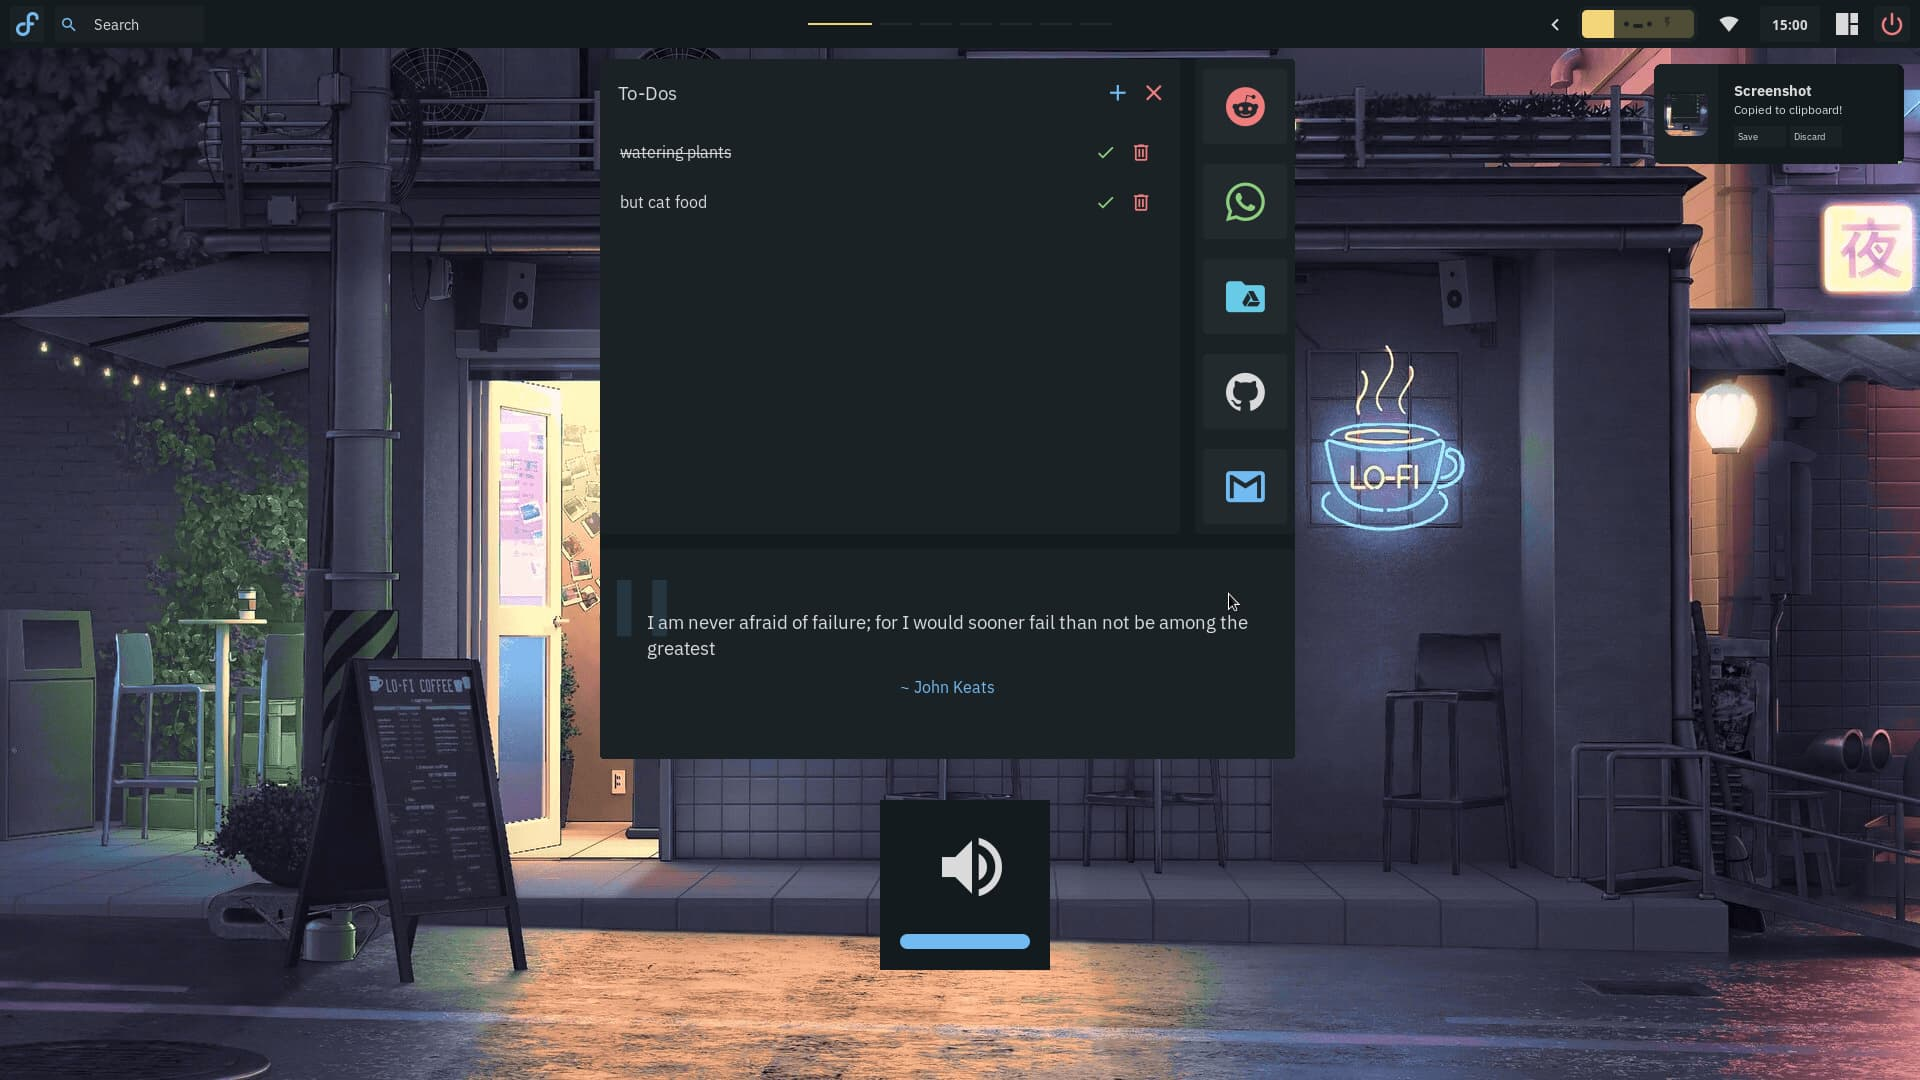
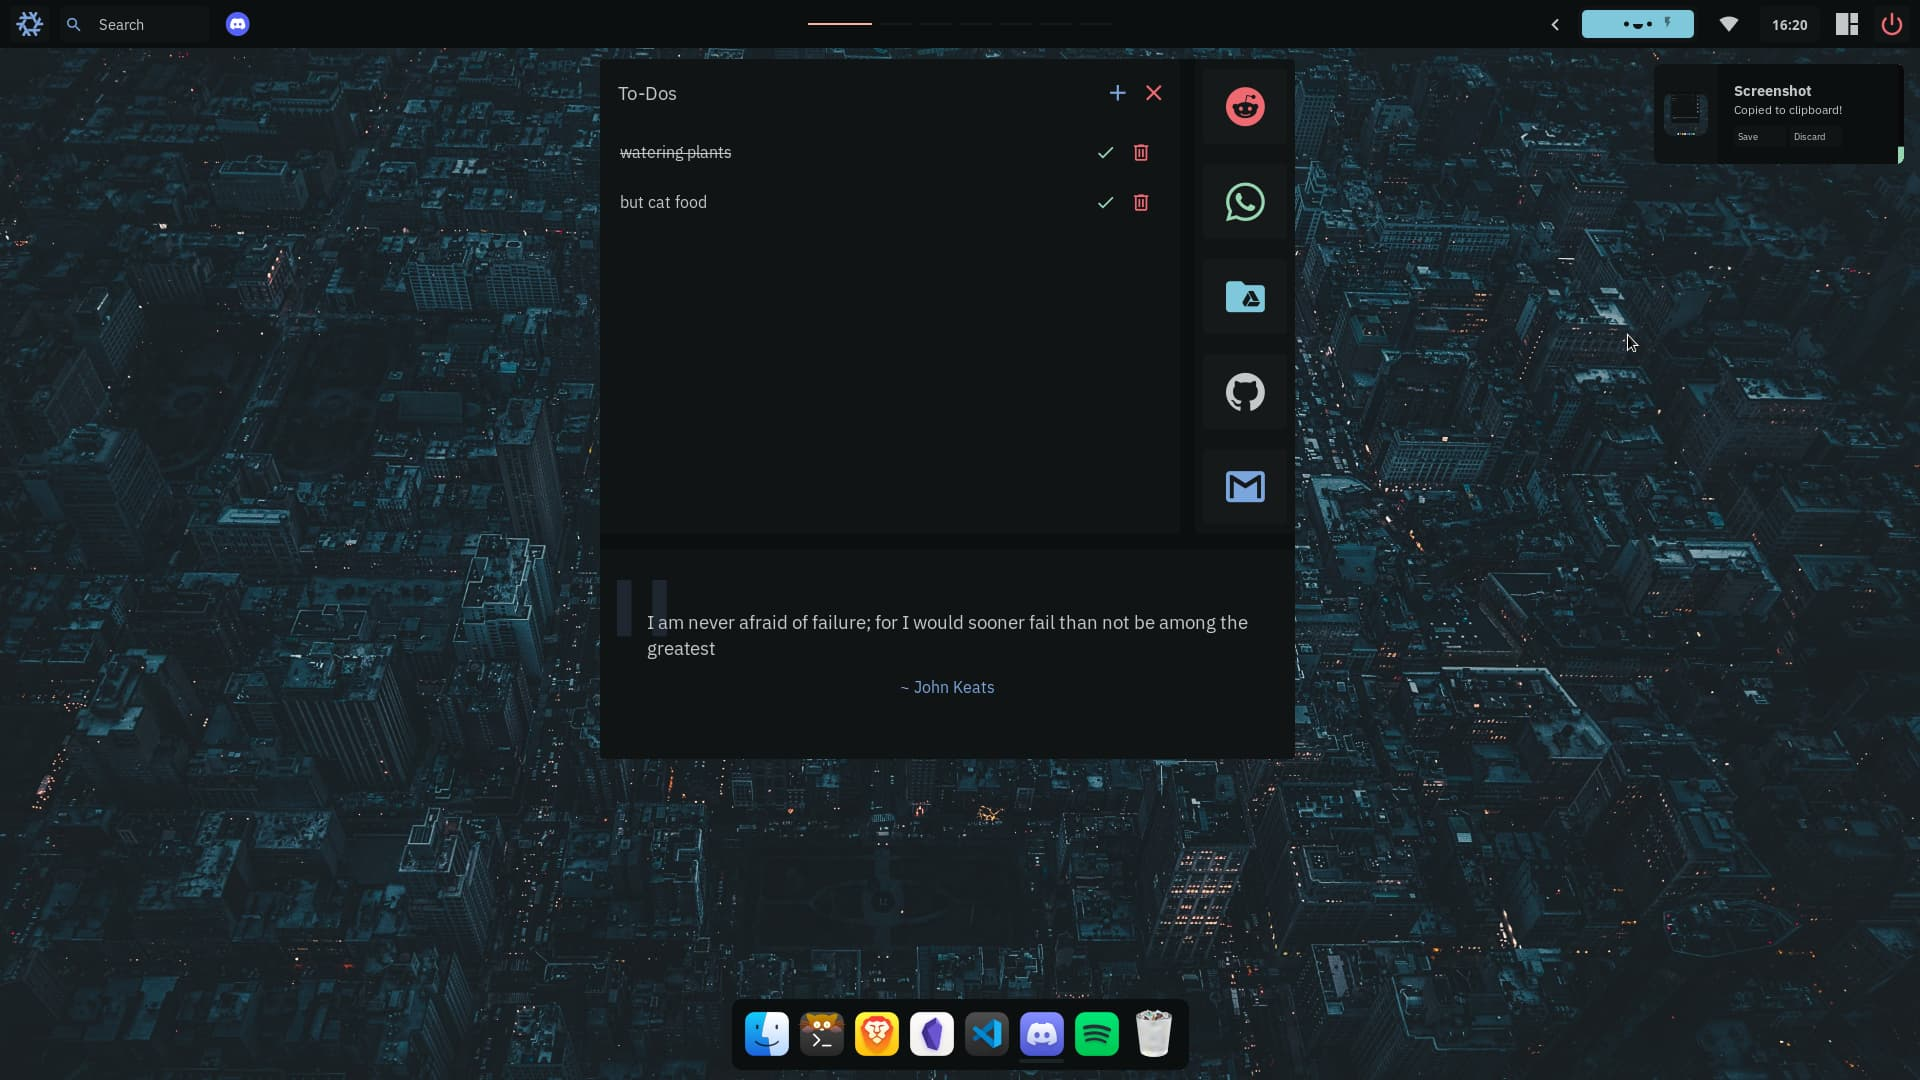
docs: new Awesthetic minimalist dock

diff --git a/.github/README.md b/.github/README.md
@@ -26,6 +26,7 @@
 <div align="center">
 <img src="./screenshots/1.jpg" alt="showcase1">
 <img src="./screenshots/2.jpg" alt="showcase2">
+<img src="./screenshots/4.jpg" alt="showcase4">
 <img src="./screenshots/3.jpg" alt="showcase3">
 </div>
 
@@ -84,7 +85,7 @@ These are my configuration files for **AwesomeWM** which includes a control cent
     - [maim](https://github.com/naelstrof/maim),
     [slop](https://github.com/naelstrof/slop),
     [xclip](https://github.com/astrand/xclip) (screenshots)
-    - [Papirus](https://github.com/PapirusDevelopmentTeam/papirus-icon-theme) (icon pack)
+    - [Papirus](https://github.com/PapirusDevelopmentTeam/papirus-icon-theme), [WhiteSur-icon-theme](https://github.com/vinceliuice/WhiteSur-icon-theme)  (icon pack)
     - [IBM Plex Sans](https://github.com/IBM/plex/tree/master/IBM-Plex-Sans/fonts/complete/ttf),
     [Material Icons](https://github.com/google/material-design-icons) and [CaskaydiaCove Nerd Font](https://www.nerdfonts.com/font-downloads) or (you can find the required fonts inside the `misc/fonts` folder of this repository)
     - [brightnessctl](https://github.com/Hummer12007/brightnessctl) (brightness signals)
@@ -93,12 +94,16 @@ These are my configuration files for **AwesomeWM** which includes a control cent
     <p align="center">
       <b> </b>
     </p>
-  
+
+    > **Important**
+    > The following commands do not include the dependency: [WhiteSur-icon-theme](https://github.com/vinceliuice/WhiteSur-icon-theme)
+
+
     <details>
     <summary><b> In fedora (Fedora-based distributions)</b></summary>
 
     ```shell
-    sudo dnf install NetworkManager pipewire wireplumber maim slop xclip brightnessctl bluez upower 
+    sudo dnf install NetworkManager pipewire wireplumber maim slop xclip brightnessctl bluez upower papirus-icon-theme
     ```
 
     </details>
@@ -107,7 +112,7 @@ These are my configuration files for **AwesomeWM** which includes a control cent
     <summary><b> In Arch</b></summary>
 
     ```shell
-    sudo yay -s NetworkManager pipewire wireplumber main slop xclip brightnessctl bluez upower
+    sudo yay -s NetworkManager pipewire wireplumber main slop xclip brightnessctl bluez upower papirus-icon-theme
     ```
 
     </details>
@@ -291,8 +296,81 @@ local desc = wibox.widget{
 }
 ```
 
-
 In the part that says `AwesomeWM is awesome`, add the description that you like, make it brief
+
+
+---
+
+- Dock
+
+~ `Add programs to the dock` To add or delete a program, go to the following file `widgets/dock/init.lua` and edit the following code fragment:
+
+```lua
+-- making some pinned apps
+    local metadata = {
+      {
+        name = "nautilus",
+        id = 1,
+        count = 0,
+        clients = {},
+        class = "nautilus"
+      },
+      {
+        count = 0,
+        id = 2,
+        clients = {},
+        name = "kitty",
+        class = "kitty"
+      },
+      {
+        count = 0,
+        id = 3,
+        clients = {},
+        name = "brave-browser",
+        class = "brave-browser"
+      },
+      {
+        count = 0,
+        id = 4,
+        name = "obsidian",
+        clients = {},
+        class = "obsidian"
+      },
+      {
+        count = 0,
+        id = 5,
+        name = "code",
+        clients = {},
+        class = "code"
+      },
+      {
+        count = 0,
+        id = 6,
+        name = "discord",
+        clients = {},
+        class = "discord"
+      },
+      {
+        count = 0,
+        id = 7,
+        name = "spotify",
+        clients = {},
+        class = "spotify"
+      },
+    }
+    
+    local classes = { "kitty", "discord", "obsidian", "brave-browser", "spotify", "nautilus", "code" }
+```
+The elements of the `metadata` table are composed of:
+
+1. `count`: Indicates the number of clients.
+
+2. `id`: This is a unique identifier for each pinned program. In addition, it serves the purpose of avoiding duplicates, ensuring that the same pinned program does not appear multiple times.
+
+3. `name` and `class`: These fields represent the command to be executed with its respective icon. The information for each of these fields is located in the following location: `/usr/share/icons/WhiteSur/apps/scalable/`.
+
+The class classes contains the combination of command and icon. Any addition or removal of pinned programs must also be done in this arrangement.
+
 
 > **Note**
 This small section can be taken as a personalization guide for my configuration. Don't think that this is the only thing they can do with my configuration, they can totally modify it, steal widgets, basically they want them.
@@ -458,6 +536,10 @@ local themes      = {
 ```
 Therefore you must add an image with the name of the color scheme in the path `widgets/controlCenter/module/images/` with a size of `355x255`
 
+---
+
+~ `Path in which the task list is saved` It is saved here: `.cache/awesome/todos.json`
+
 </details>
 
 <!-- MODULES -->
@@ -486,8 +568,8 @@ AwesomeWM Modules:
 
 My configuration files are the result of merging the brilliant [gwileful](https://github.com/Gwynsav/gwileful) and [crystal](https://github.com/chadcat7/crystal) projects. So without them this would not have been possible.  ૮꒰ ˶• ༝ •˶꒱ა ♡
 
-- [gw creator gwileful](https://github.com/Gwynsav/)
-- [chadcat7 creator crystal](https://github.com/chadcat7/)
+- [gw's creator gwileful](https://github.com/Gwynsav/)
+- [chadcat7's creator crystal](https://github.com/chadcat7/)
 
 <!-- REFERENCES -->
 ## References
